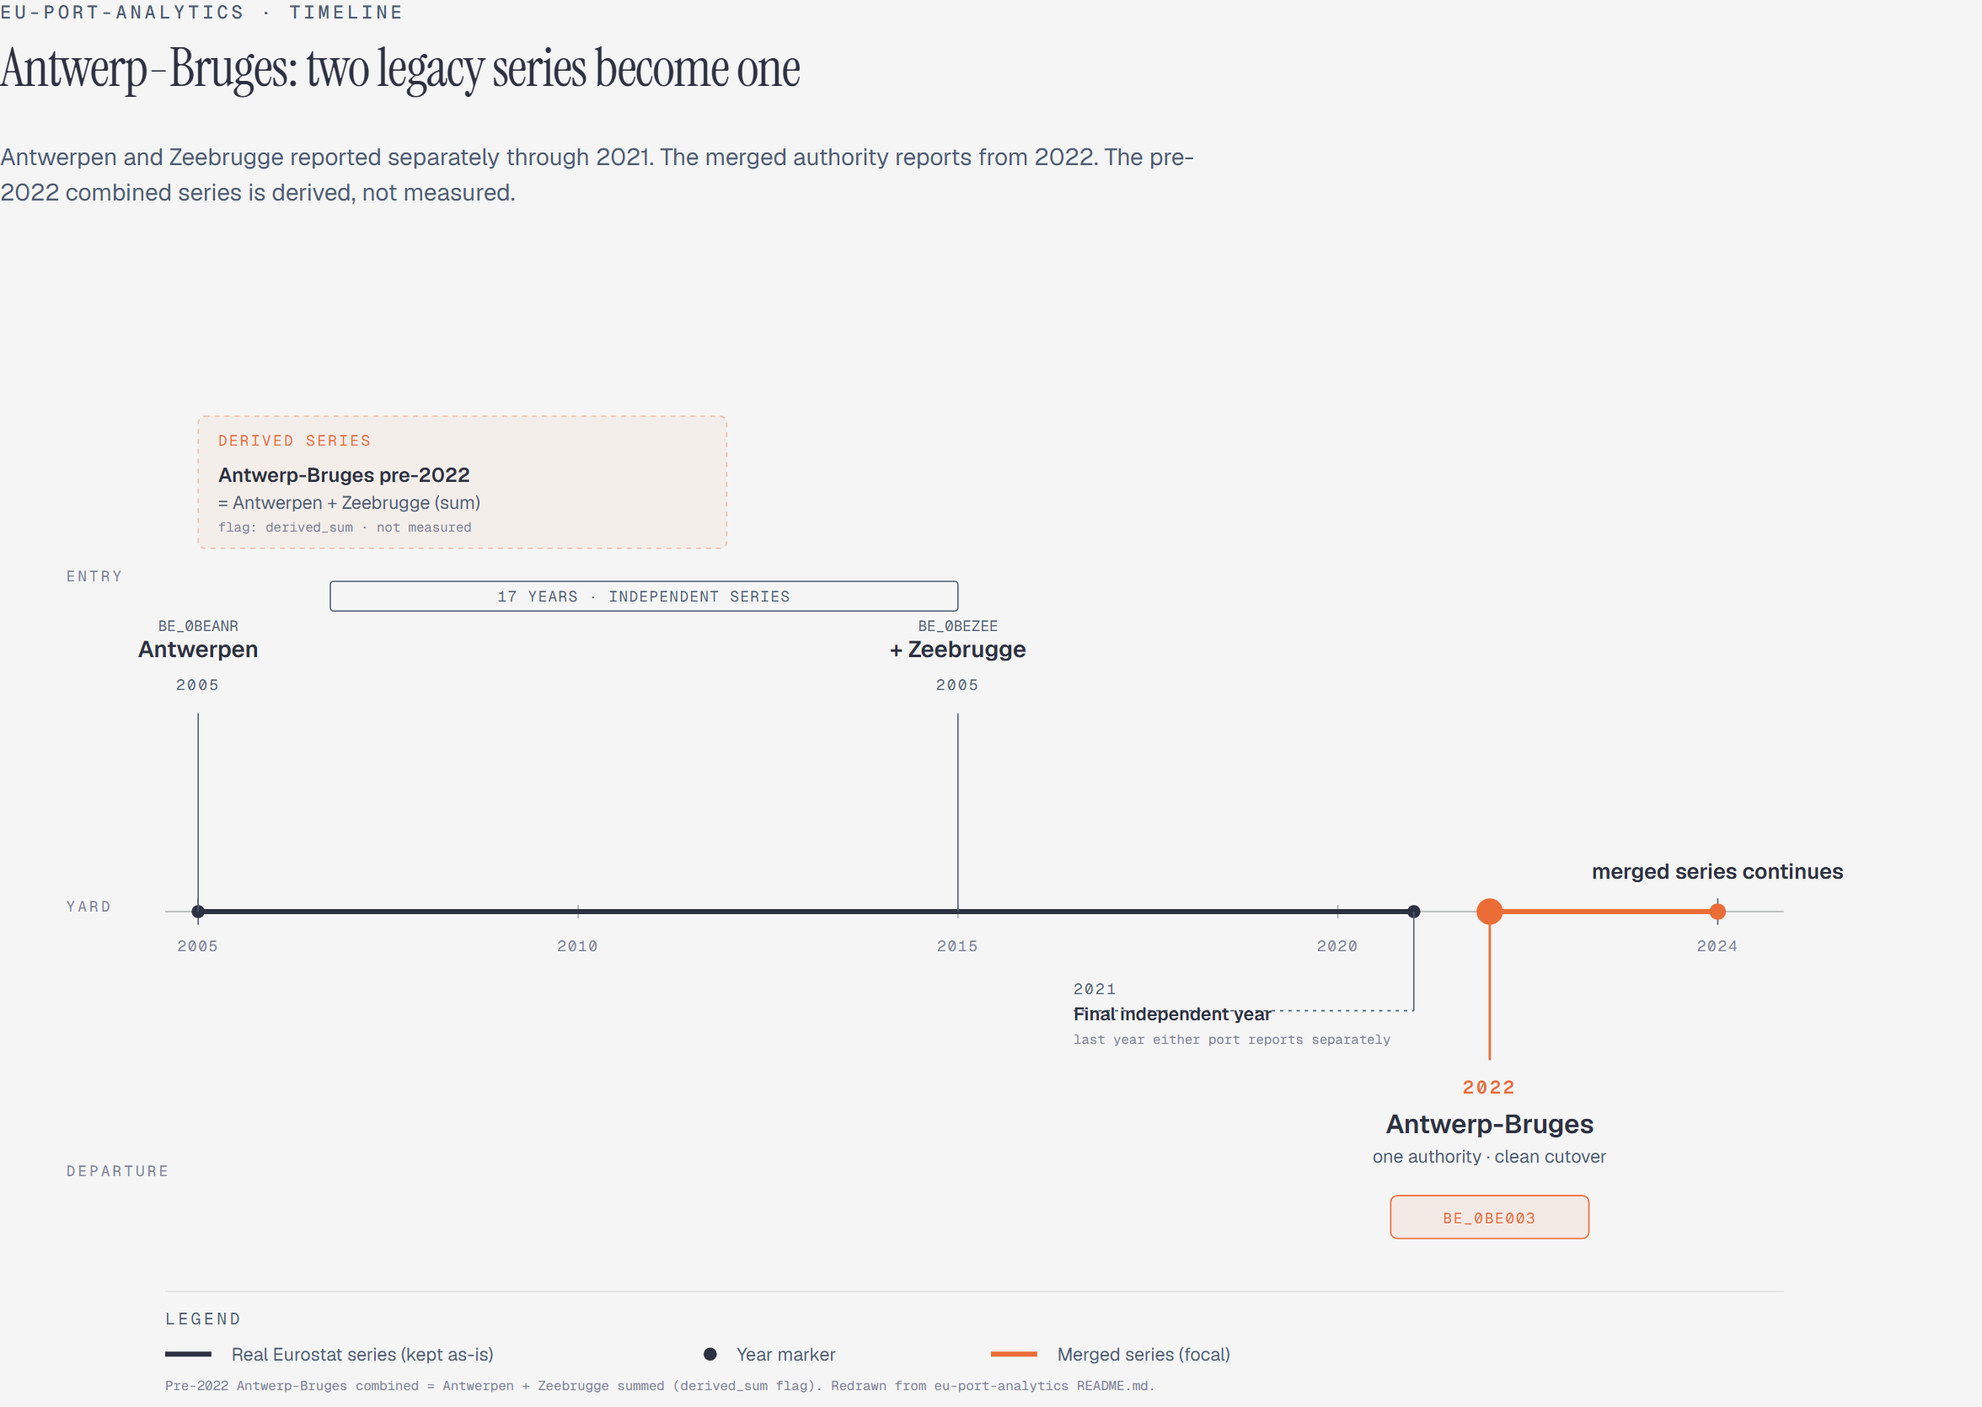
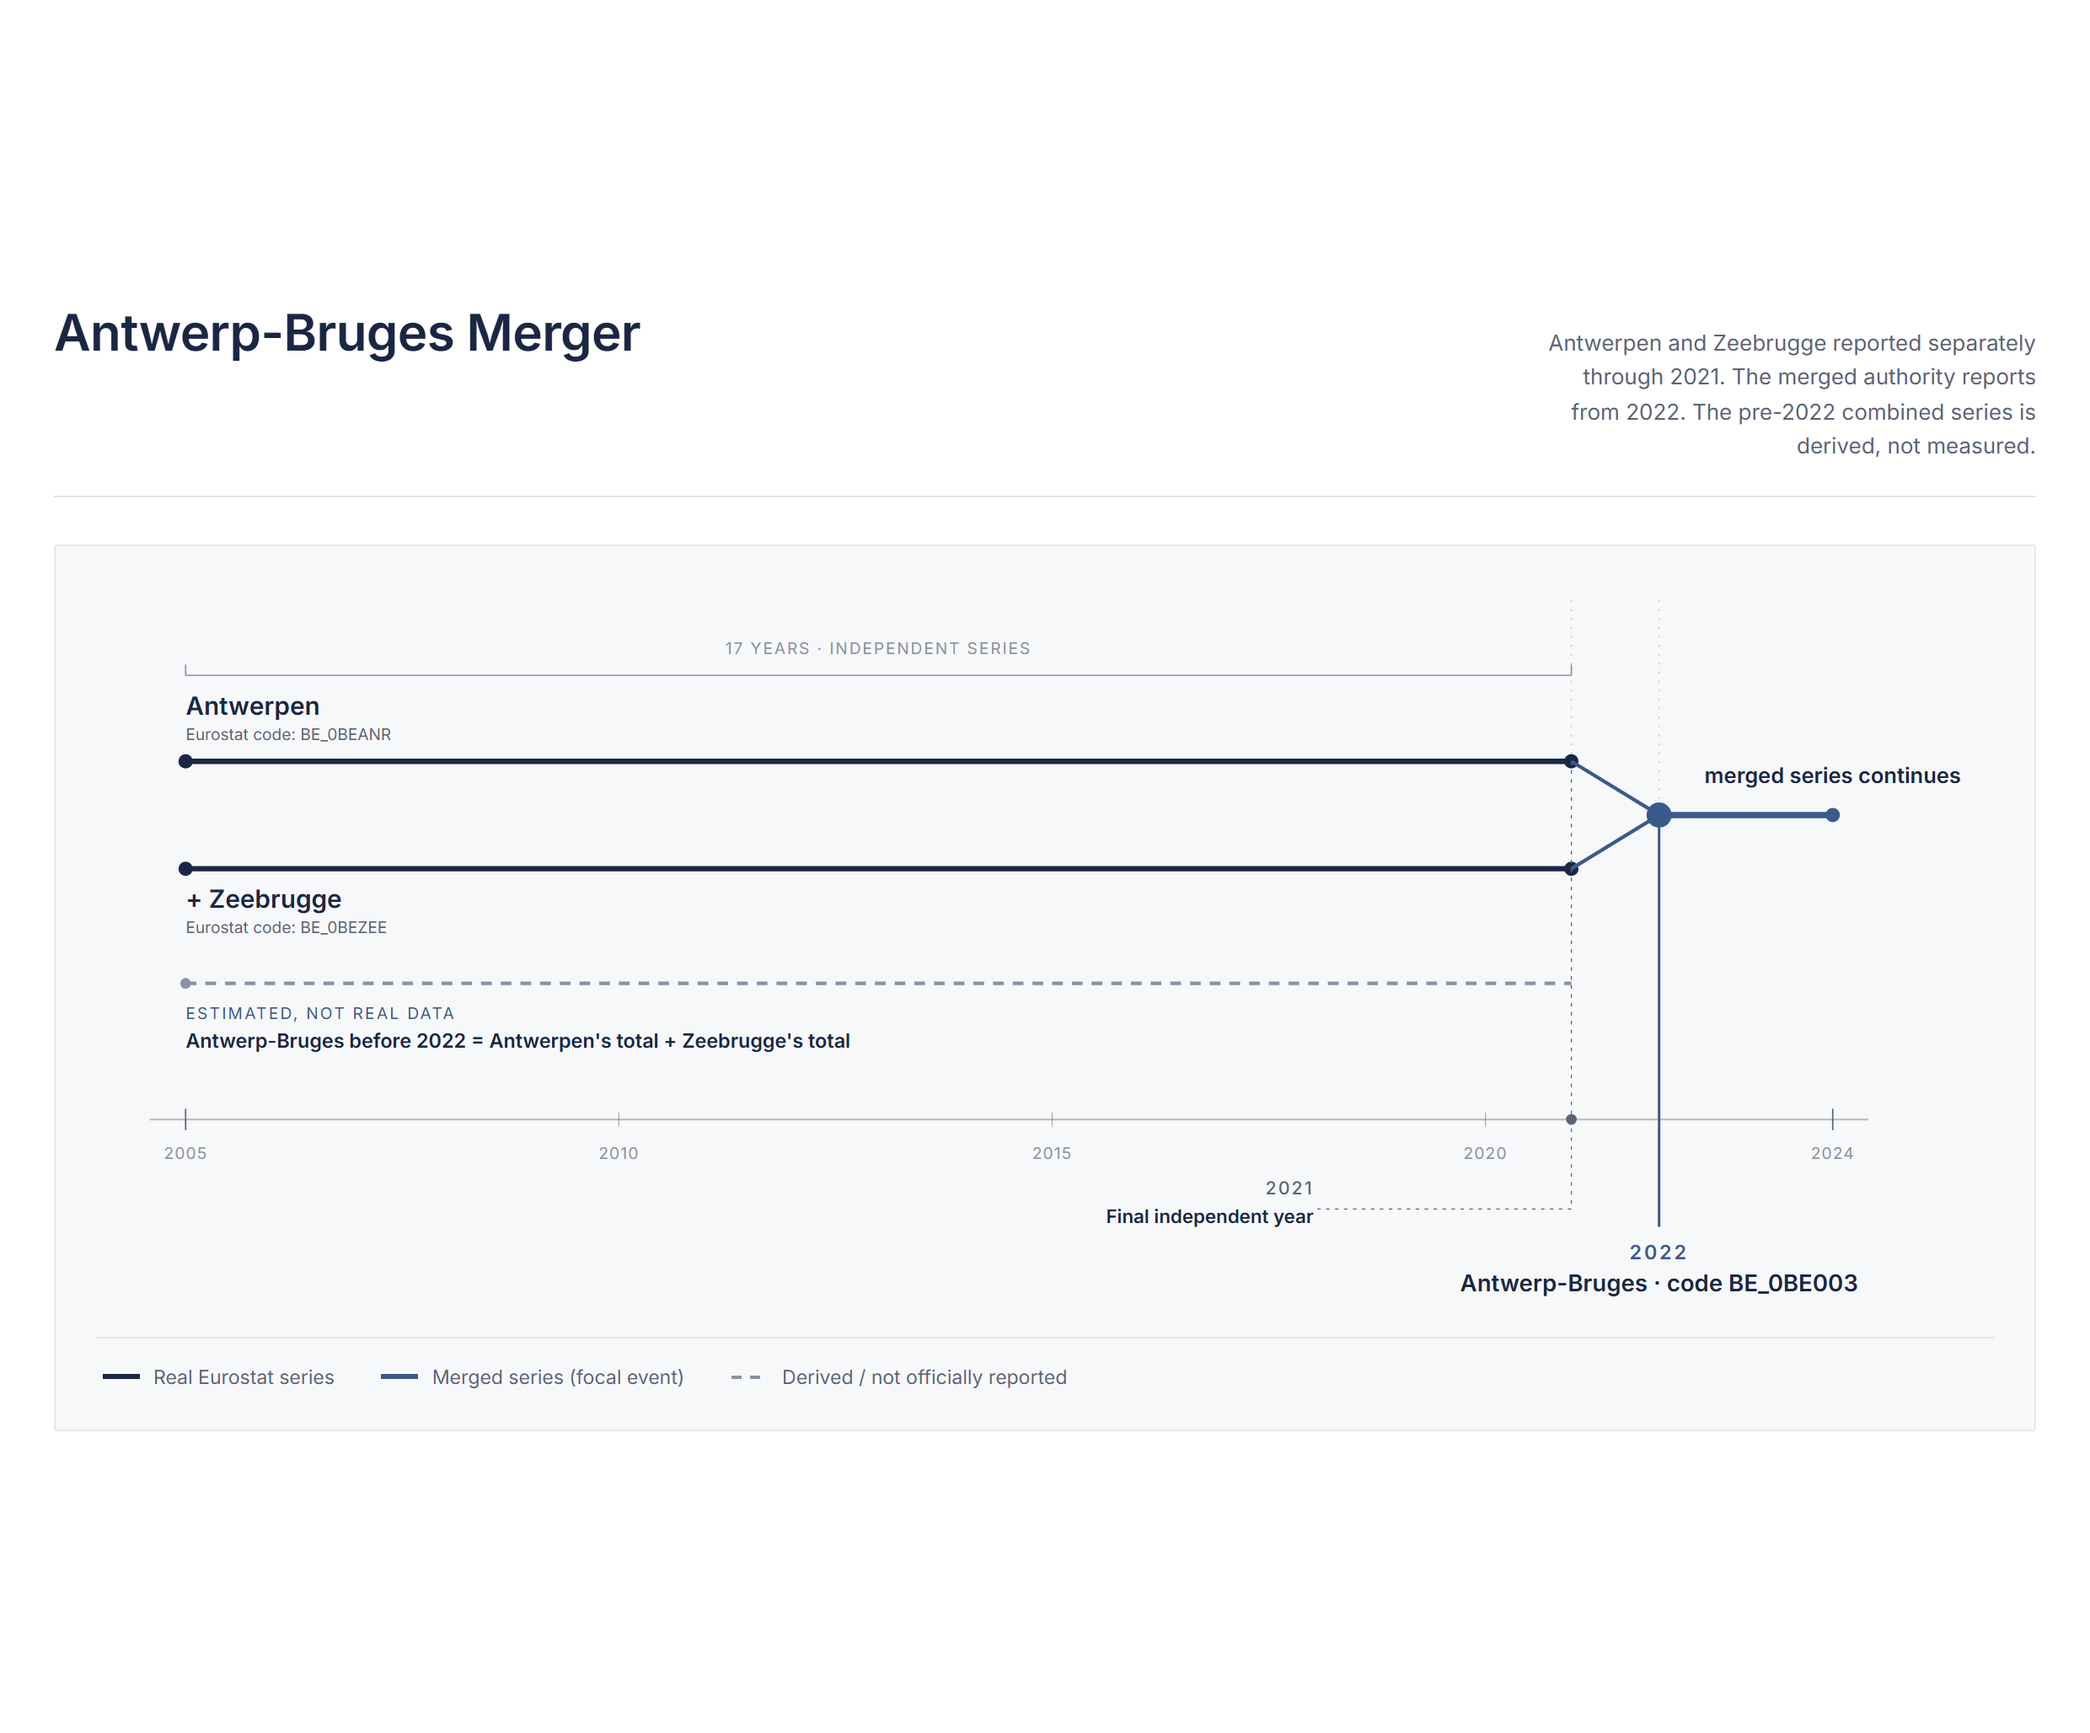
Add data quality findings diagram and update merger timeline
Regenerate the Antwerp-Bruges merger timeline (was rendering blank
due to unresolved template bindings in the source) and add the new
data quality findings matrix diagram, referenced from
docs/data-quality-notes.md.

Claude-Session: https://claude.ai/code/session_01VgSdgFuA41nfm6UpNSHEjE

diff --git a/docs/data-quality-notes.md b/docs/data-quality-notes.md
@@ -17,6 +17,8 @@ Findings at a glance (details in each section below):
 | — | 1000× thousand-tonnes bug (Phase 3) | schema named `gross_weight_tonnes` | Fixed at the raw→domain boundary | Fixed |
 | — | `revised_estimate` loop-closure (Phase 3) | `revised_estimate` (dormant) | Loader compares old/new via MERGE `OUTPUT` | Built, no occurrence |
 
+![Data quality findings — five row-level findings from the live-API investigation (port merger, phantom UNK cargo, Hamburg RO_MNSP cutoff, no confidentiality flag, inconsistent units) plus two schema-level Phase 3 items below the line (thousand-tonnes scale bug, revised-estimate loop closure)](images/data-quality-findings-matrix.png)
+
 ## Dataset codes
 
 The build spec originally listed `mar_mg_am_pwhd` and `mar_go_am`. Both 404 against the live
